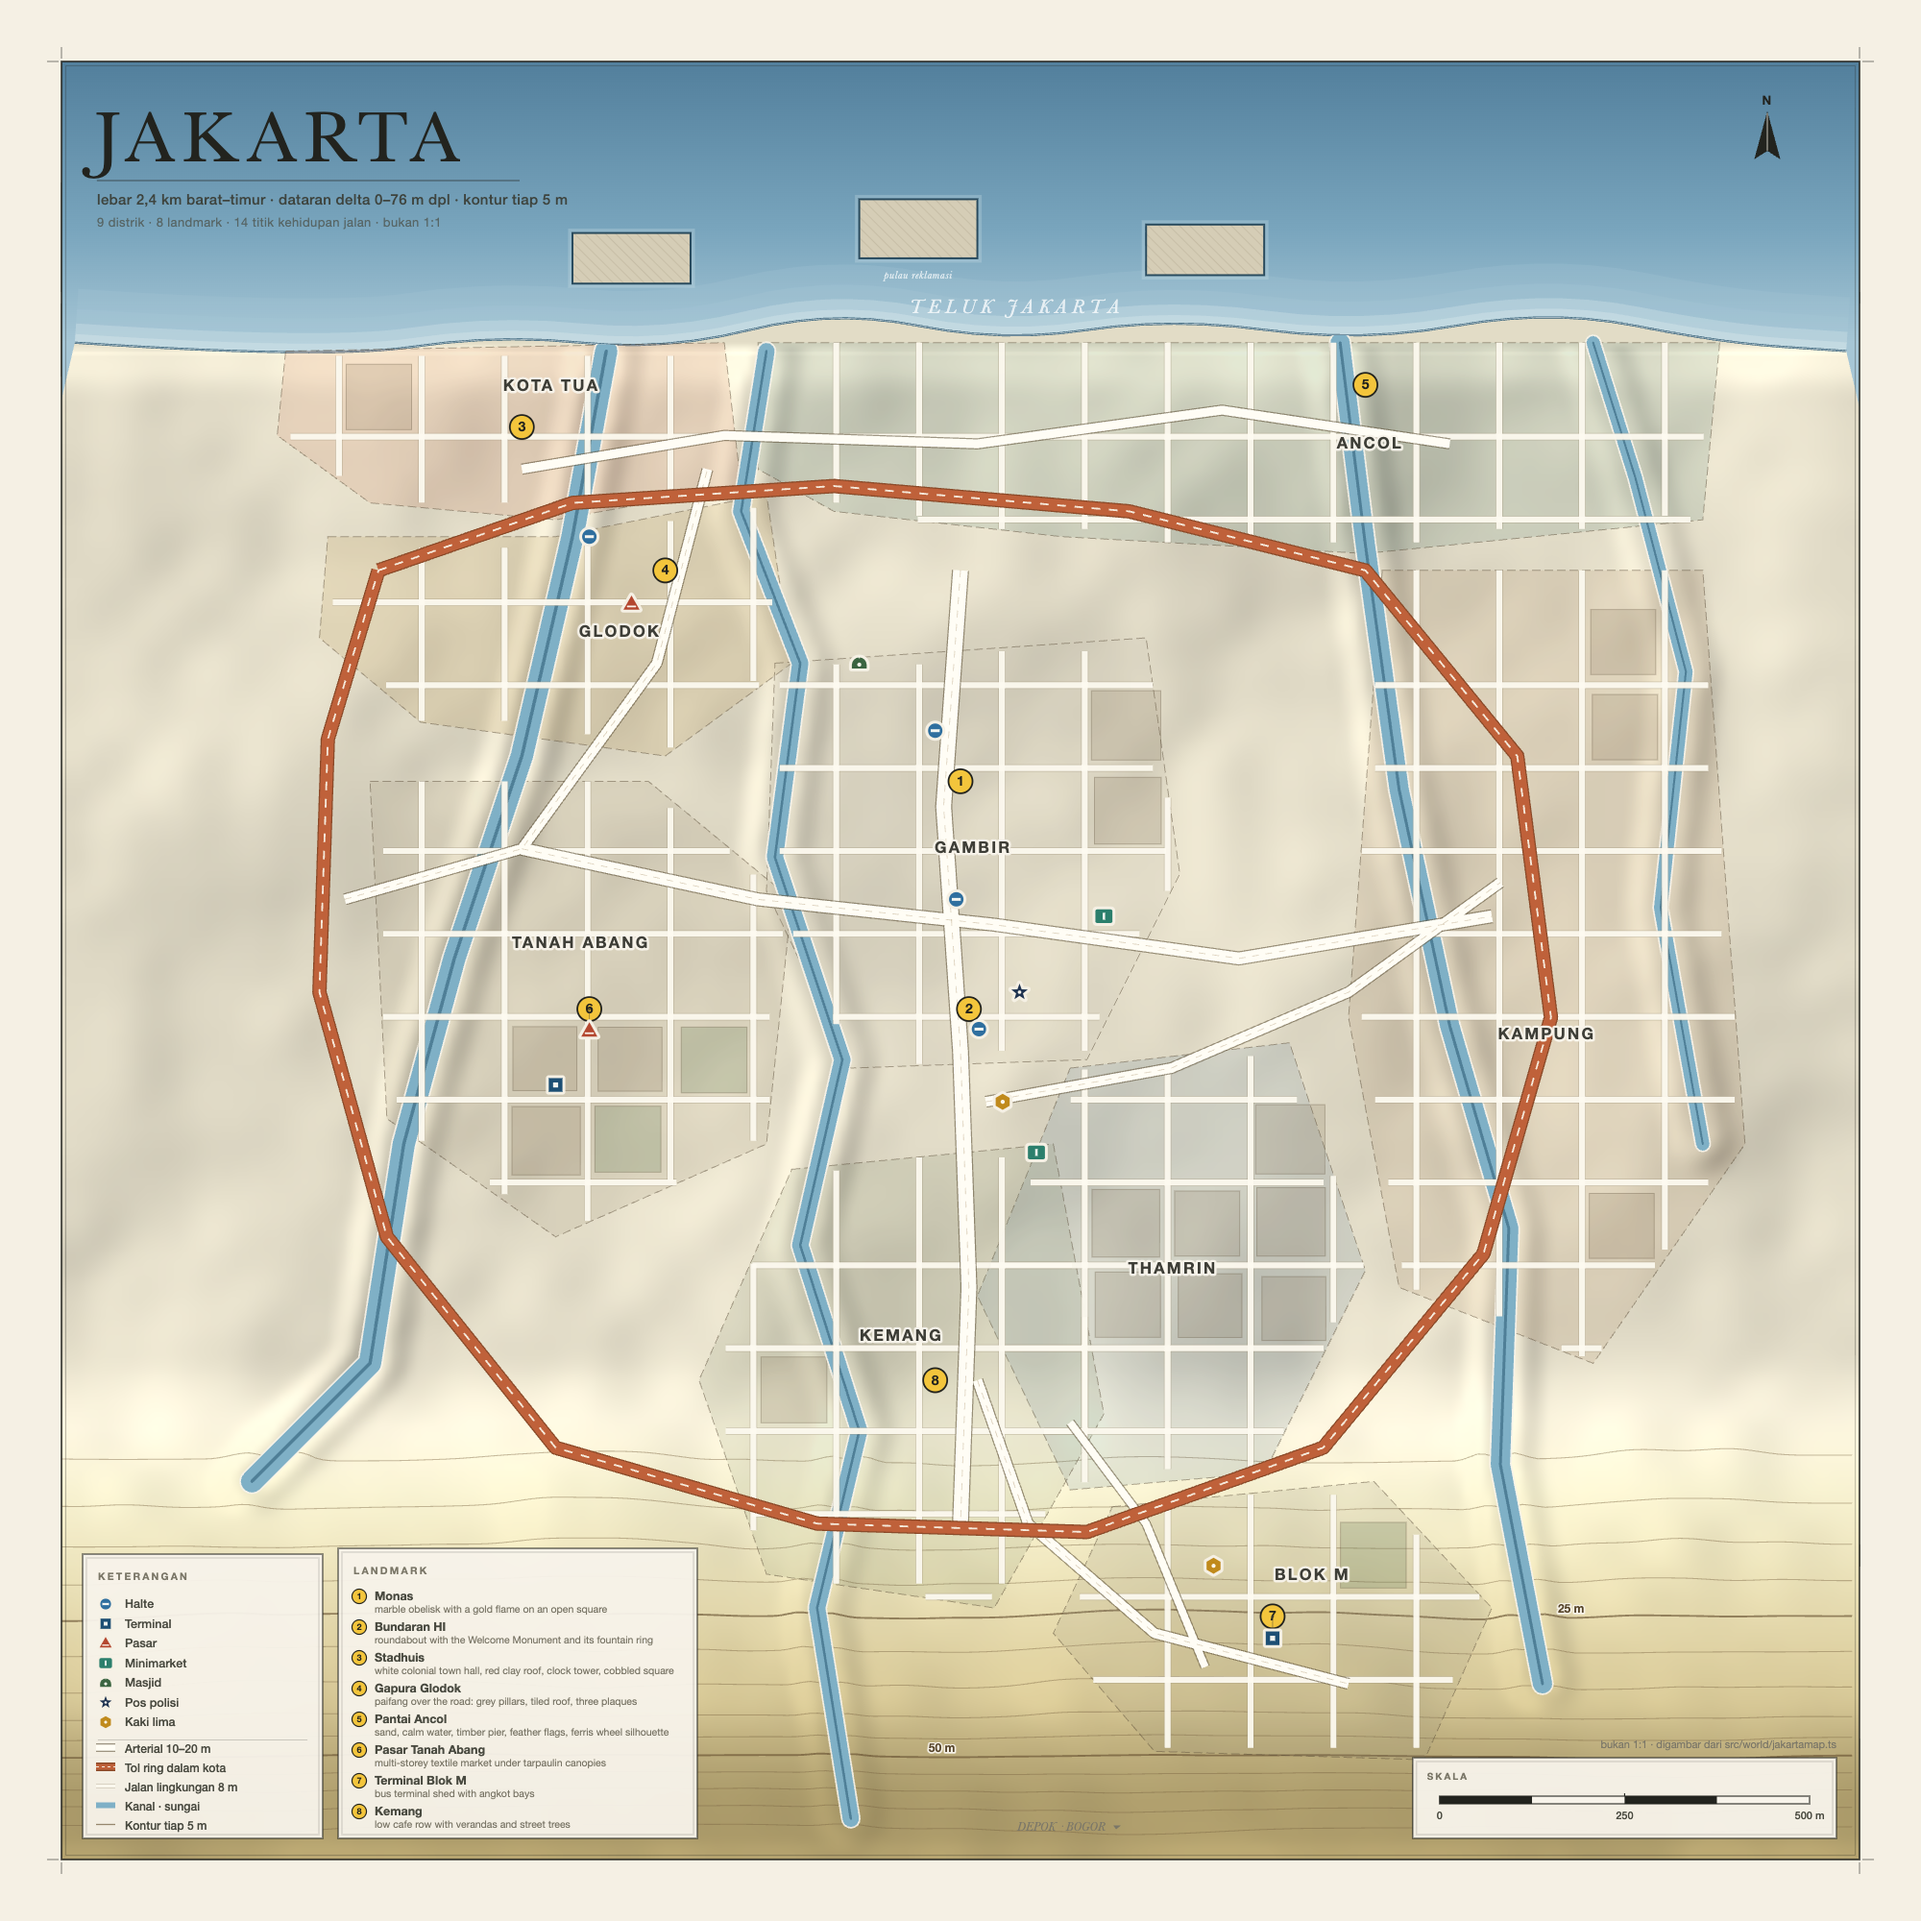
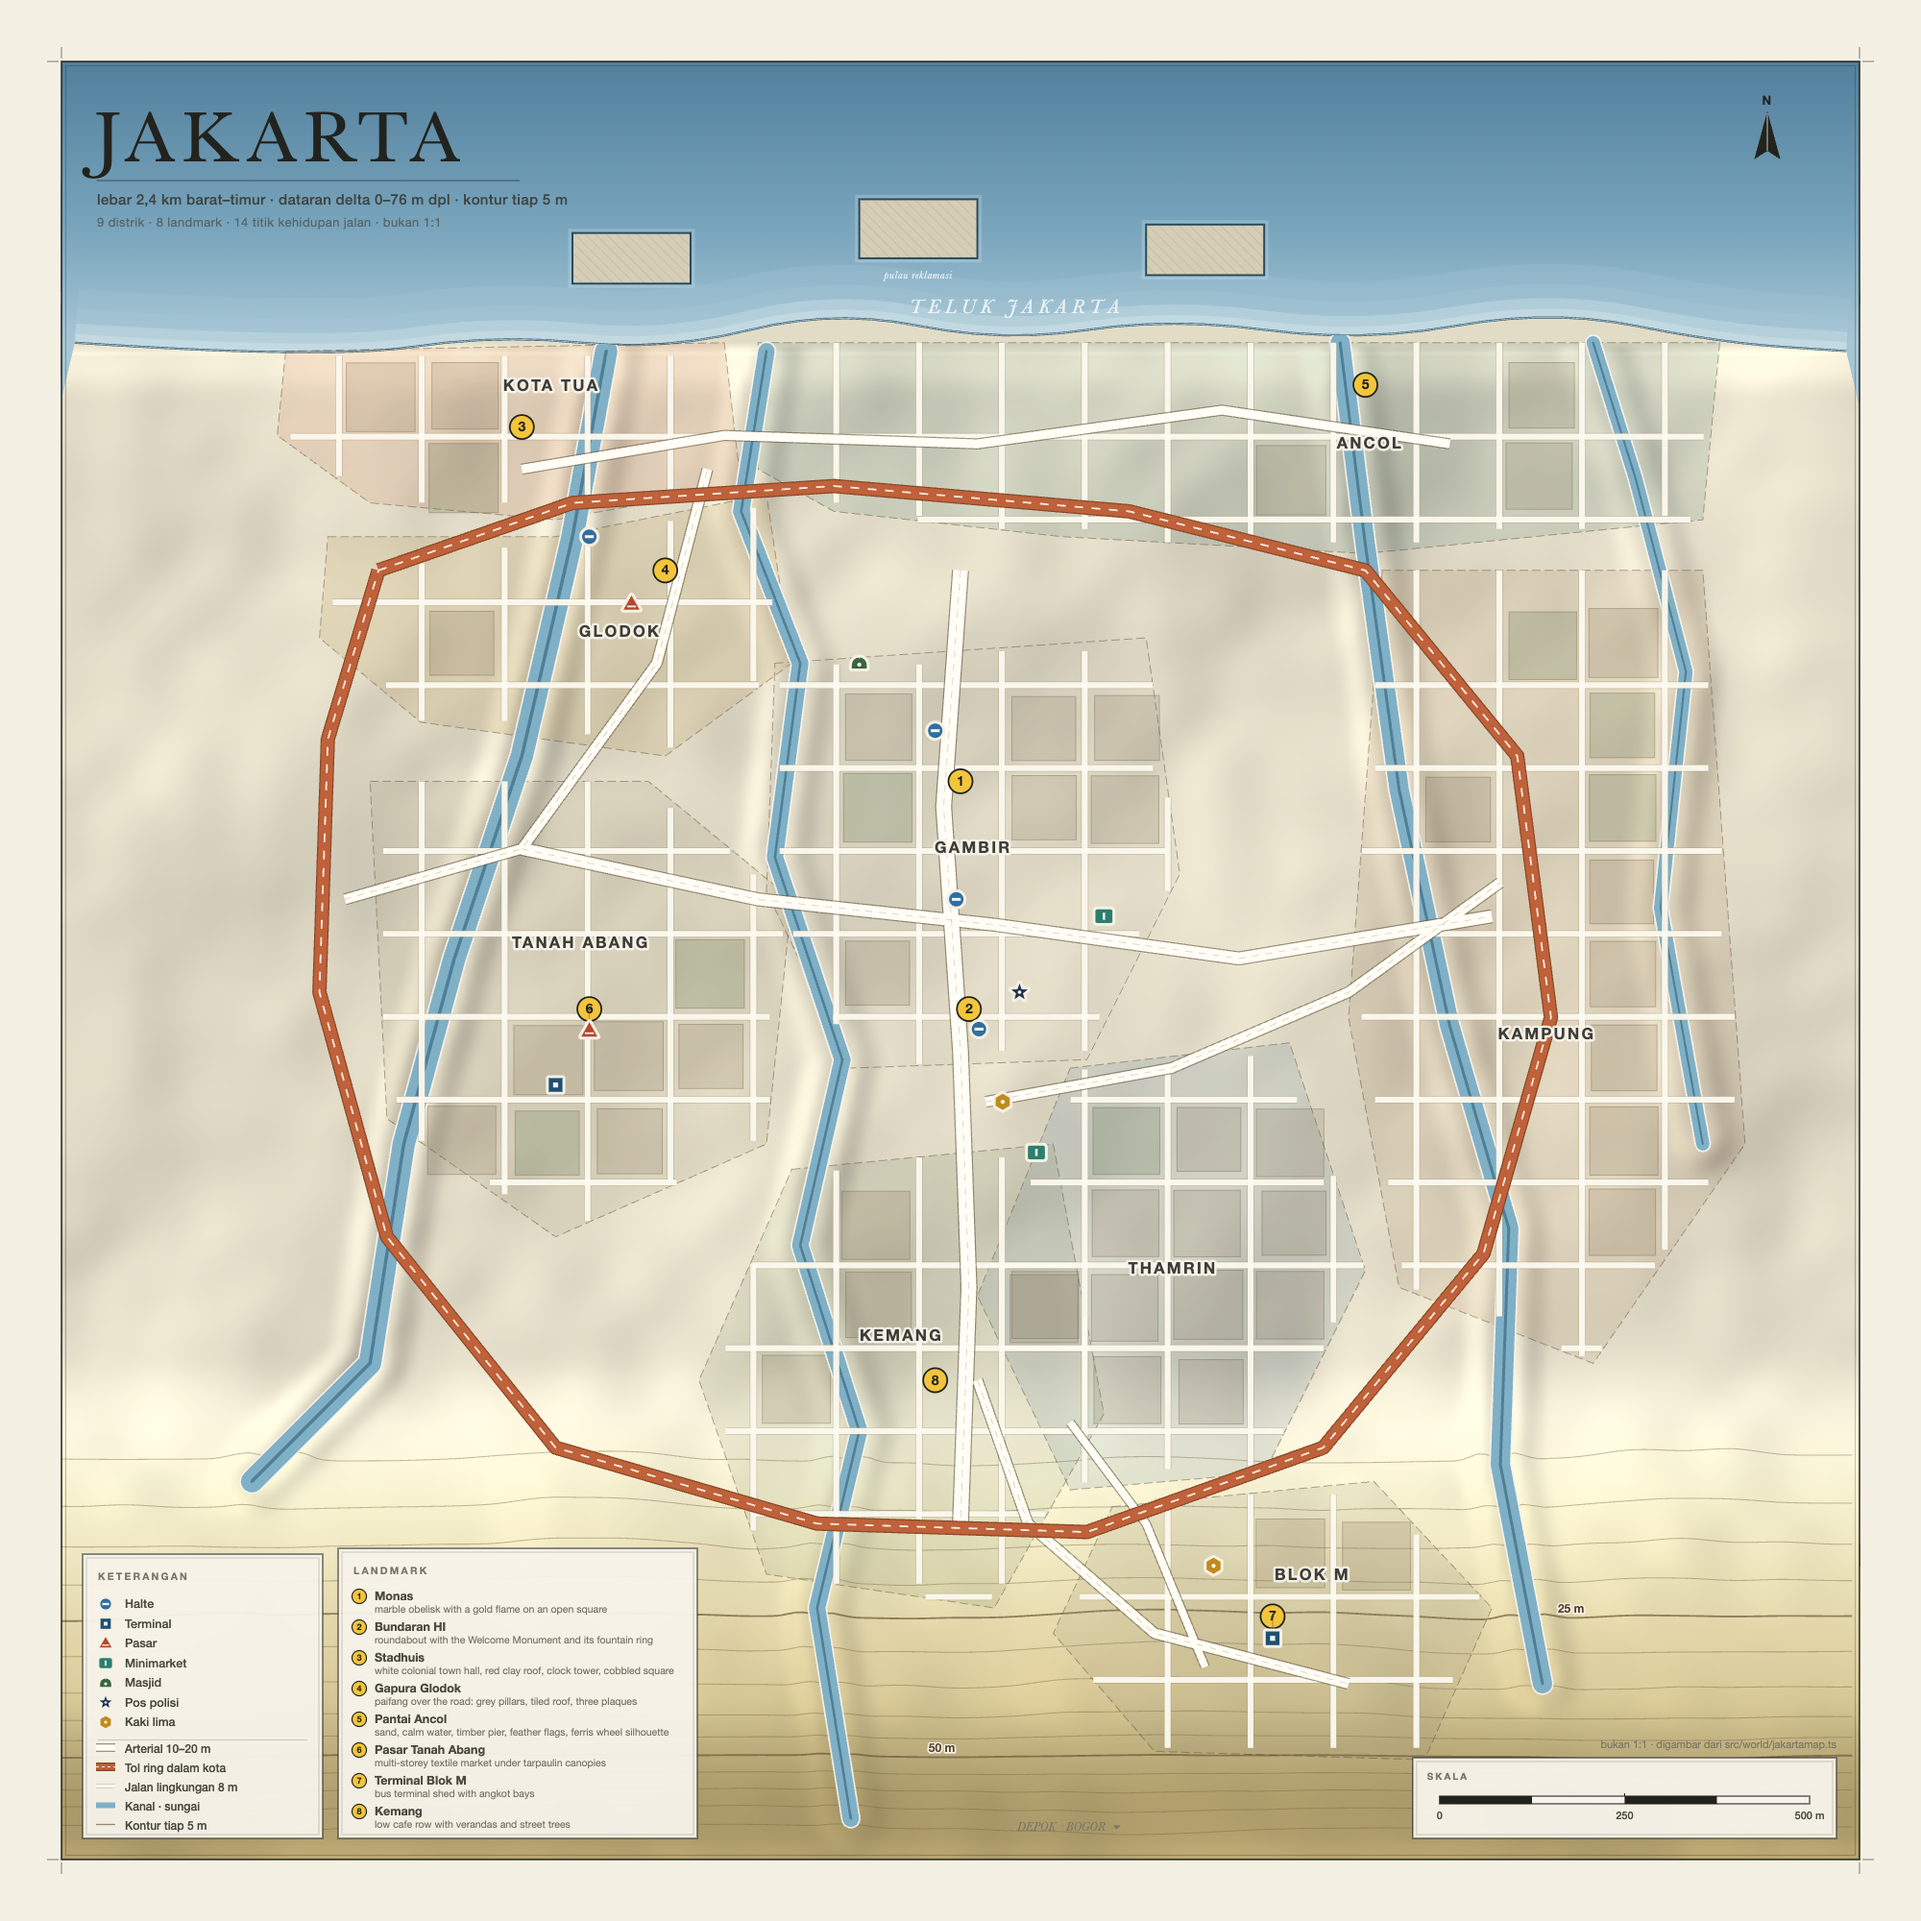
fix(world): corner clearance uses half the block edge, not the whole edge
SIZE*1.45 read the full 92 m edge as a radius, so every site within 143 m of an arterial was rejected and the 2.4 km city kept only 28 blocks. The corner of a block reaches SIZE/2 * sqrt(2) = 65 m, so the corridor is width/2 + 65 + 2. Sites 28 -> 58 (32 city blocks).

diff --git a/src/core/pathfinding.ts b/src/core/pathfinding.ts
@@ -34,6 +34,13 @@ const CLEARANCE = 3;
 const CLOSE_PAD = 1.5;
 /** Half width of a cruiser: a road sample this close to a footprint is not drivable. */
 const CAR_PAD = 1;
+/** Step of the last-stretch march from the end of the graph toward the target. */
+const MARCH = 2;
+/**
+ * Extra cost of routing through a road sample a building stands on. Bigger than any detour on
+ * this map, so A* leaves the graph shape alone (connectivity) and still refuses the wall.
+ */
+const BLOCKED_COST = 5000;
 
 /** Axis-aligned footprint of a solid object (same shape city.colliders uses). */
 export interface Box {
@@ -122,6 +129,8 @@ export class RoadNav {
   colliders: Box[];
 
   readonly nodeCount: number;
+  /** 1 when a building stands on that road sample: routed around, never through if avoidable. */
+  private readonly blocked: Uint8Array;
   private readonly px: Float64Array;
   private readonly pz: Float64Array;
   /** CSR adjacency: neighbours of n are adjTo[adjStart[n] .. adjStart[n + 1]) */
@@ -169,22 +178,26 @@ export class RoadNav {
       roadNodes.push(list);
     }
 
-    // 2. drop the samples that stand inside a building. The polylines are the map's intent, not
+    // 2. mark the samples that stand inside a building. The polylines are the map's intent, not
     // the city as built: blocks are laid on their own pitch and a local street runs through some
-    // of them (measured: 12% of the samples are under a footprint). Routing through a wall is not
-    // routing, and the cruiser that received such a leg stopped against the wall and reversed
-    // forever - which is what "the chase never closes" looked like on screen.
+    // of them (measured: 12% of the samples are under a footprint). A route that runs through a
+    // wall is not a route, so those samples cost extra in A* - enough to prefer any legal detour,
+    // but they are still linked, because a graph cut in pieces strands a cruiser a block away
+    // from the player instead of sending it round.
     const solid = colliders.filter((b) => (b.h ?? 0) >= OBSTACLE_MIN_H);
+    const blocked = new Uint8Array(nodes.length);
     if (solid.length) {
-      for (const n of nodes) {
+      for (let i = 0; i < nodes.length; i++) {
+        const n = nodes[i];
         for (const b of solid) {
           if (n.x > b.minX - CAR_PAD && n.x < b.maxX + CAR_PAD && n.z > b.minZ - CAR_PAD && n.z < b.maxZ + CAR_PAD) {
-            n.kept = false;
+            blocked[i] = 1;
             break;
           }
         }
       }
     }
+    this.blocked = blocked;
 
     const n = nodes.length;
     const pxAll = new Float64Array(n);
@@ -194,24 +207,18 @@ export class RoadNav {
       pzAll[i] = nodes[i].z;
     }
 
-    // 3. adjacency: consecutive samples along a road (a dropped sample cuts the road, it does not
-    // get bridged), plus links where two roads meet
-    const kept: number[] = [];
-    for (let i = 0; i < n; i++) kept.push(nodes[i].kept ? i : -1);
+    // 3. adjacency: consecutive samples along a road, plus links where two roads meet
     const edges: { a: number; b: number; cost: number }[] = [];
     for (const list of roadNodes) {
       for (let i = 0; i < list.length - 1; i++) {
         const a = list[i];
         const b = list[i + 1];
-        if (kept[a] === -1 || kept[b] === -1) continue;
         const cost = Math.hypot(pxAll[a] - pxAll[b], pzAll[a] - pzAll[b]);
         edges.push({ a, b, cost });
       }
     }
     for (let i = 0; i < n; i++) {
-      if (kept[i] === -1) continue;
       for (let j = i + 1; j < n; j++) {
-        if (kept[j] === -1) continue;
         if (nodes[i].road === nodes[j].road) continue;
         const d = Math.hypot(pxAll[i] - pxAll[j], pzAll[i] - pzAll[j]);
         if (d > JOIN) continue;
@@ -219,30 +226,14 @@ export class RoadNav {
       }
     }
 
-    // 4. keep only nodes that still have an edge: a sample whose whole neighbourhood is covered by
-    // a building is not a road point, and leaving it in gives findPath a stub to "reach".
-    const degree = new Int32Array(n);
-    for (const e of edges) {
-      degree[e.a]++;
-      degree[e.b]++;
-    }
-    const remap = new Int32Array(n).fill(-1);
-    let live = 0;
-    for (let i = 0; i < n; i++) if (degree[i] > 0) remap[i] = live++;
-    const liveNodes = live;
-    const px = new Float64Array(liveNodes);
-    const pz = new Float64Array(liveNodes);
-    for (let i = 0; i < n; i++) {
-      const k = remap[i];
-      if (k < 0) continue;
-      px[k] = nodes[i].x;
-      pz[k] = nodes[i].z;
-    }
+    const liveNodes = n;
+    const px = pxAll;
+    const pz = pzAll;
 
     const start = new Int32Array(liveNodes + 1);
     for (const e of edges) {
-      start[remap[e.a] + 1]++;
-      start[remap[e.b] + 1]++;
+      start[e.a + 1]++;
+      start[e.b + 1]++;
     }
     for (let i = 0; i < liveNodes; i++) start[i + 1] += start[i];
     this.adjStart = start;
@@ -250,8 +241,8 @@ export class RoadNav {
     this.adjCost = new Float64Array(edges.length * 2);
     const cursor = Int32Array.from(start.subarray(0, liveNodes));
     for (const e of edges) {
-      const a = remap[e.a];
-      const b = remap[e.b];
+      const a = e.a;
+      const b = e.b;
       this.adjTo[cursor[a]] = b;
       this.adjCost[cursor[a]++] = e.cost;
       this.adjTo[cursor[b]] = a;
@@ -445,7 +436,10 @@ export class RoadNav {
   }
 
   private relax(from: number, to: number, edgeCost: number, gx: number, gz: number): void {
-    const ng = this.gScore[from] + edgeCost;
+    // a sample a building stands on is not forbidden (the graph would fall apart), just expensive:
+    // any legal detour is cheaper, so A* only goes through a wall when there is no other way
+    const penalty = this.blocked[to] ? BLOCKED_COST : 0;
+    const ng = this.gScore[from] + edgeCost + penalty;
     if (ng >= this.gScore[to]) return;
     this.gScore[to] = ng;
     this.parent[to] = from;
@@ -479,8 +473,8 @@ export class RoadNav {
       const d = Math.hypot(this.px[n] - sx, this.pz[n] - sz);
       if (d > LINK_MAX) continue;
       if (d > 2 && !this.clear(sx, sz, this.px[n], this.pz[n], CLOSE_PAD)) continue;
-      g[n] = d;
-      this.push(n, d + Math.hypot(this.px[n] - gx, this.pz[n] - gz));
+      g[n] = d + (this.blocked[n] ? BLOCKED_COST : 0);
+      this.push(n, g[n] + Math.hypot(this.px[n] - gx, this.pz[n] - gz));
       seeded++;
     }
     if (seeded === 0) {
@@ -569,6 +563,8 @@ export class RoadNav {
       stack[cnt++] = node;
       node = parent[node];
     }
+    // the first entry is the end of the route when it could not reach the target
+    const routeEnd = cnt > 0 ? stack[0] : -1;
 
     const raw = this.raw;
     raw.length = 0;
@@ -577,6 +573,34 @@ export class RoadNav {
       const n = stack[k];
       if (n === goal) continue;
       raw.push(this.px[n], this.pz[n]);
+    }
+    if (!reachGoal && routeEnd !== -1) {
+      // The road is sampled every 10 m, so stopping exactly on the last reachable node can leave
+      // the cruiser a whole sample short of where the asphalt really ends in front of the target.
+      // Walk the last stretch toward the target and stop at the last legal metre: still on the
+      // asphalt corridor, still clear of every footprint.
+      const bx = this.px[routeEnd];
+      const bz = this.pz[routeEnd];
+      const d = Math.hypot(gx - bx, gz - bz);
+      if (d > 1) {
+        const ux = (gx - bx) / d;
+        const uz = (gz - bz) / d;
+        let lx = bx;
+        let lz = bz;
+        const limit = Math.min(d, LINK_MAX);
+        for (let t = MARCH; t <= limit; t += MARCH) {
+          const cx = bx + ux * t;
+          const cz = bz + uz * t;
+          if (!this.onRoadCorridor(lx, lz, cx, cz)) break;
+          if (!this.clear(lx, lz, cx, cz, CLOSE_PAD)) break;
+          lx = cx;
+          lz = cz;
+        }
+        if (lx !== bx || lz !== bz) {
+          raw.push(lx, lz);
+          this.lastStats.shortfall = Math.hypot(lx - gx, lz - gz);
+        }
+      }
     }
     if (reachGoal) {
       // The final leg is the one stretch of the route that was never sampled by the graph: it is
@@ -615,7 +639,9 @@ export class RoadNav {
         const dev = Math.abs((x - ax) * vz - (z - az) * vx) / len;
         const forward = (bx - ax) * (x - bx) + (bz - az) * (z - bz);
         const span = Math.hypot(x - ax, z - az);
-        if (dev < 0.6 && forward >= 0 && span <= MAX_LEG) {
+        // the chord also has to stay clear: merging samples that a building stands between is how
+        // a route ends up crossing a wall while every one of its nodes sat on a road
+        if (dev < 0.6 && forward >= 0 && span <= MAX_LEG && this.clear(ax, az, x, z, CLEARANCE)) {
           out[(n - 1) * 2] = x;
           out[(n - 1) * 2 + 1] = z;
           continue;

diff --git a/src/world/city.ts b/src/world/city.ts
@@ -885,10 +885,10 @@ export class City {
           // the roads come first: a block may not sit on an arterial, or the street the player
           // spawns on has a building in the middle of it
           for (const a of ARTERIALS) {
-            if (this.distToPath(jx, jz, a.path) < a.width / 2 + SIZE * 1.45 + 2) { blocked = true; break; }
+            if (this.distToPath(jx, jz, a.path) < a.width / 2 + (SIZE / 2) * 1.42 + 2) { blocked = true; break; }
           }
           if (blocked) continue;
-          if (this.distToPath(jx, jz, RING_ROAD) < 12 + SIZE * 1.45 + 2) continue;
+          if (this.distToPath(jx, jz, RING_ROAD) < 12 + (SIZE / 2) * 1.42 + 2) continue;
           for (const lm of LANDMARKS) {
             if (Math.hypot(jx - lm.x, jz - lm.z) < SIZE / 2 + 34) { blocked = true; break; }
           }
